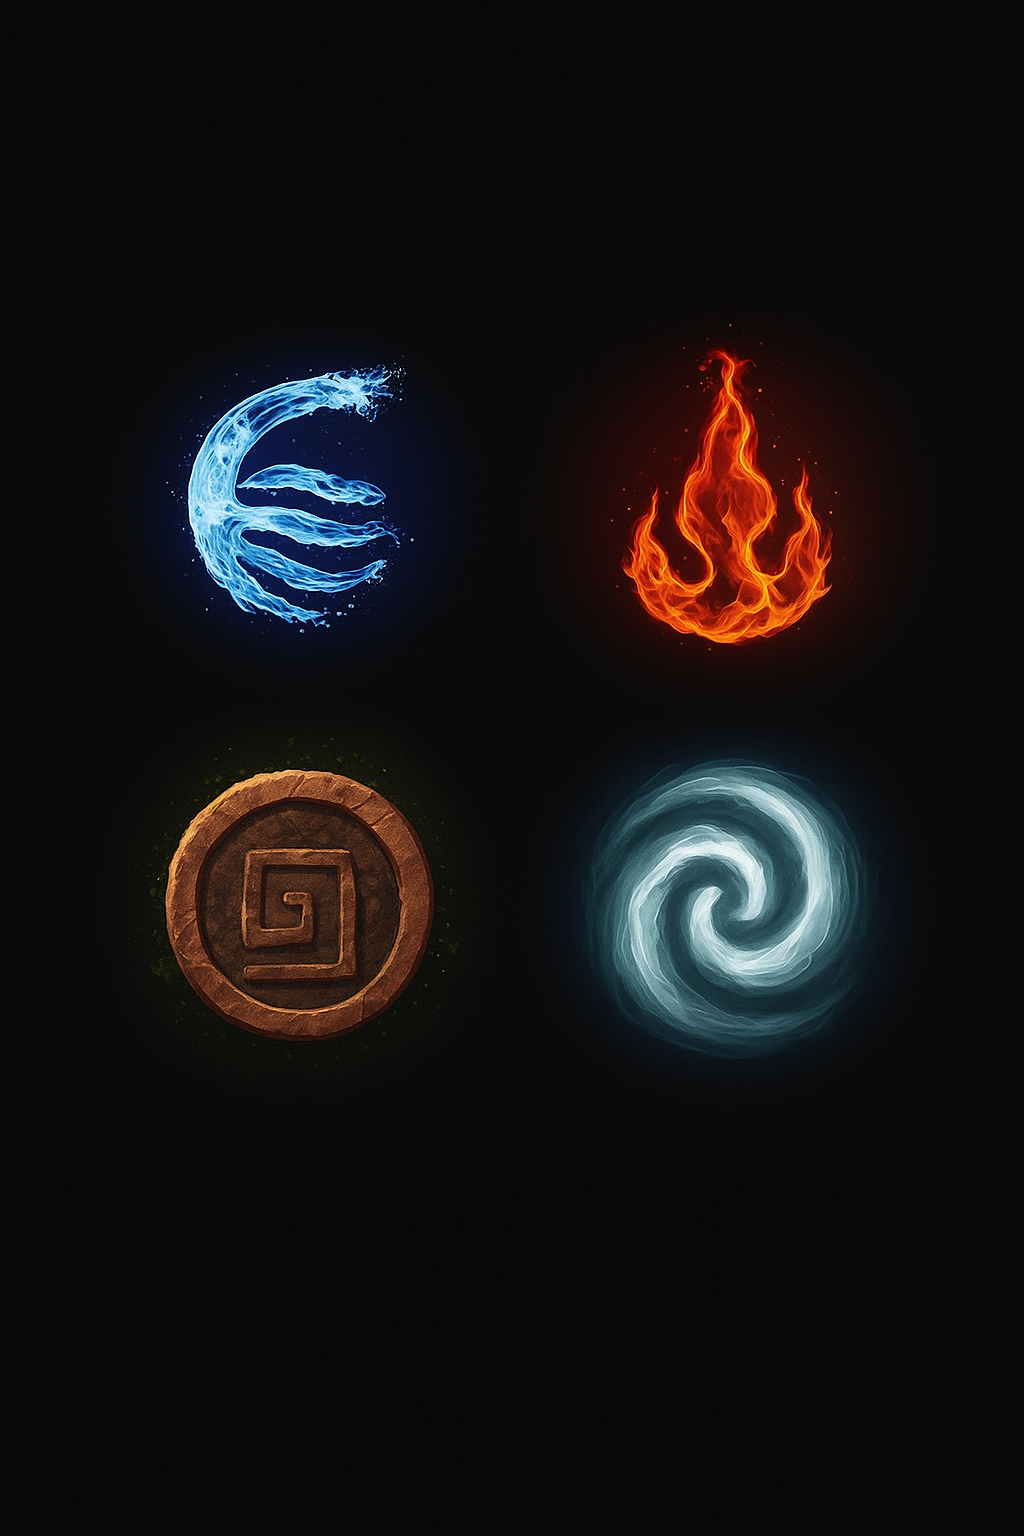
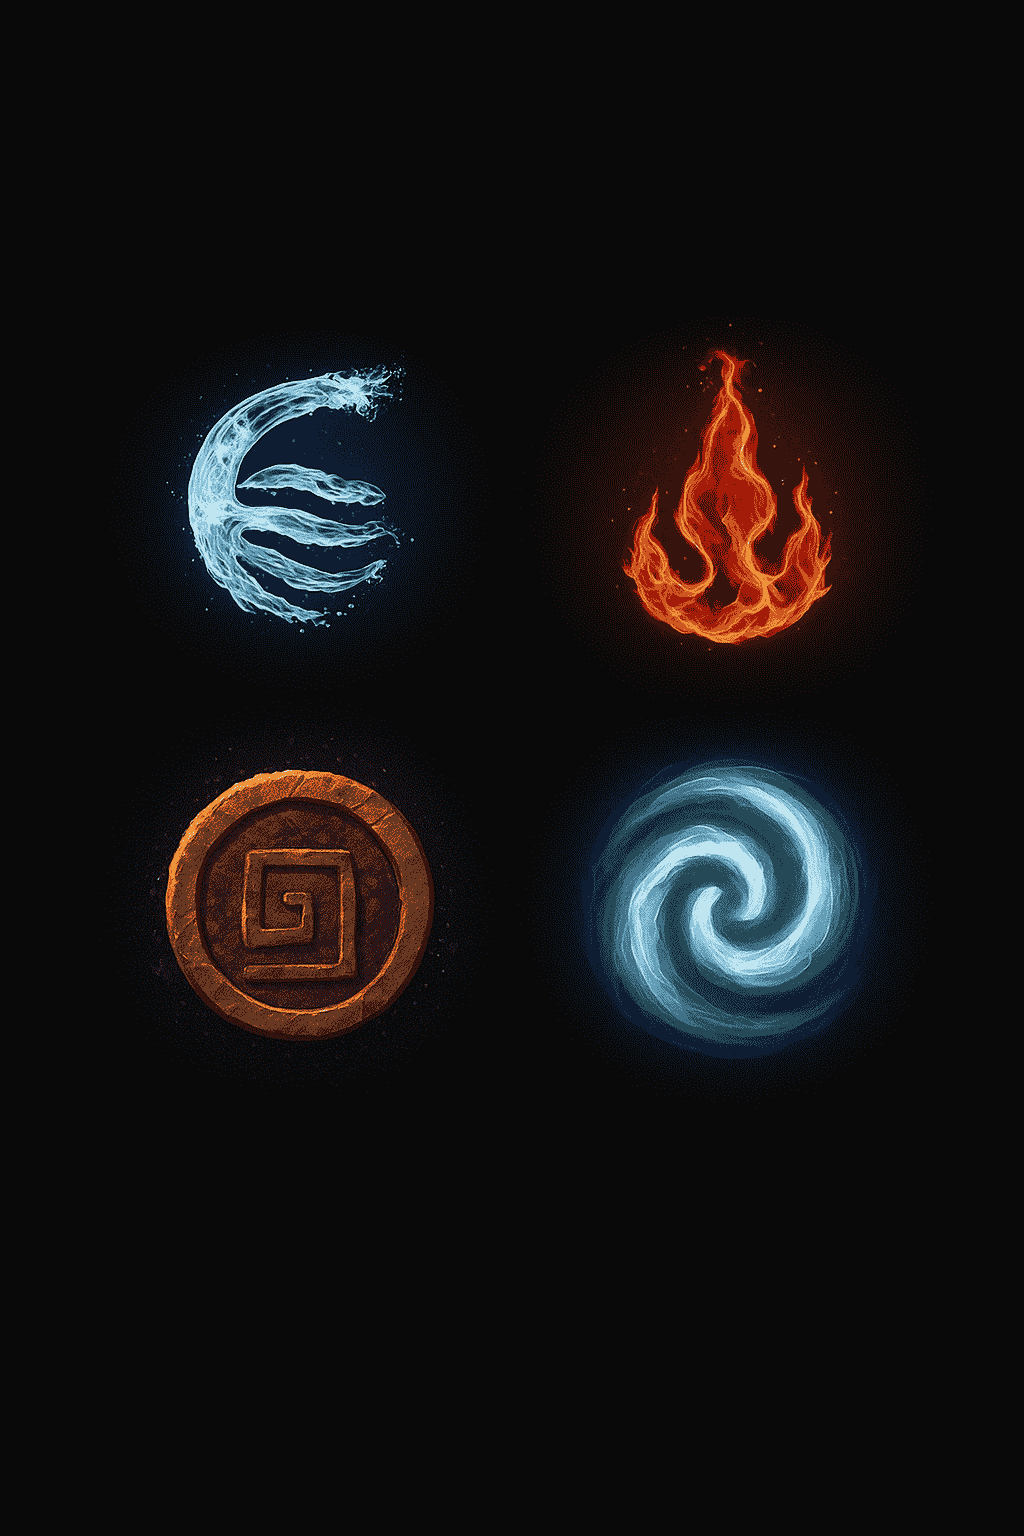
compress images

diff --git a/elements.css b/elements.css
@@ -184,9 +184,12 @@ body{
     background-color: #e85d04;
 }
 
-@media (max-width:600px) {
+@media (max-width:480px) {
     .container {
-      width: 95%;
-      
+      width: 100%;
+    }
+    
+    .quote{
+        font-size: small;
     }
 }
